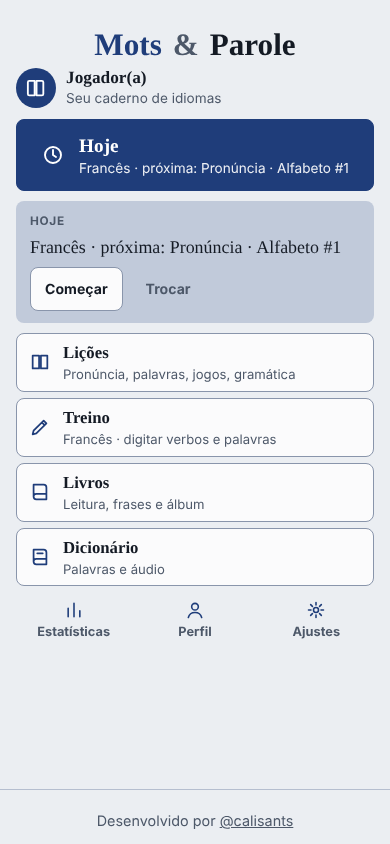
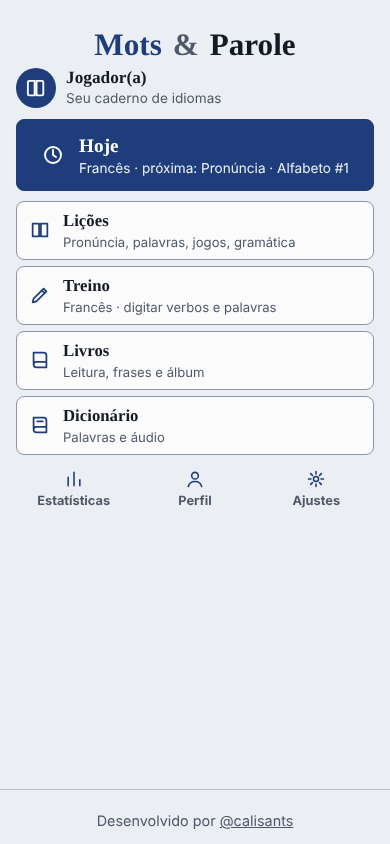
v1.39.1: Cartão do dia vem desligado (Hoje aparecia duas vezes)
Claude-Session: https://claude.ai/code/session_01Jjgc5gMX8emN8fLyn2n8jv

diff --git a/index.html b/index.html
@@ -986,7 +986,7 @@ svg{display:block}
 <div id="toast" role="status" aria-live="polite" hidden></div>
 
 <script>
-const APP_REL={v:"1.39.0",d:"2026-10-21"};
+const APP_REL={v:"1.39.1",d:"2026-10-21"};
 
 
 const RAW={
@@ -2504,7 +2504,7 @@ const ICON_IDS=["padrao","alice","pp","frank","soft","dante"];
 const WD_SRC=["hoje","msg","frase","livro","palavra","off"];
 const DAYRE=/^\d{4}-\d\d-\d\d$/;
 const S={lang:"fr",layout:"classic",mode:"auto",pal:"auto",style:"padrao",scheme:0,custom:"#7a3b8f",player:"",motto:"",avatar:"book",plays:{},sk:{},sound:"on",snd:"mid",hap:"on",trem:"on",kb:false,vol:1,fTheme:"all",fLevel:"all",fGame:"all",done:{},rv:{},rvv:{},typed:false,goal:20,day:{d:"",n:0},zoom:false,bk:0,bks:0,since:0,fav:[],cap:{},trad:"lit",qrv:{},cad:[],rd:{fs:0,bg:"pad",lh:0},
-  sq:0,lgt:"",gam:{on:false,pts:0,last:"",streak:0,best:0,les:0,bc:0,days:[],seen:[]},rm:{on:false,h:19,st:"anim"},wd:{src:"hoje",bk:"all"},ic:"padrao"};
+  sq:0,lgt:"",gam:{on:false,pts:0,last:"",streak:0,best:0,les:0,bc:0,days:[],seen:[]},rm:{on:false,h:19,st:"anim"},wd:{src:"off",bk:"all",u:0},ic:"padrao"};
 try{S.kb=!!(window.matchMedia&&matchMedia("(pointer:coarse)").matches);}catch(_){}
 (function load(){
   let sv=null;
@@ -2556,7 +2556,7 @@ try{S.kb=!!(window.matchMedia&&matchMedia("(pointer:coarse)").matches);}catch(_)
       seen:Array.isArray(g.seen)?g.seen.filter(k=>typeof k==="string"&&/^[a-z0-9]{1,12}$/.test(k)).slice(0,40):[]};
   }
   if(sv.rm&&typeof sv.rm==="object"){S.rm={on:sv.rm.on===true,h:ci(sv.rm.h,0,23)||(+sv.rm.h===0?0:19),st:["anim","calma","cartao"].indexOf(sv.rm.st)>=0?sv.rm.st:"anim"};}
-  if(sv.wd&&typeof sv.wd==="object"){S.wd={src:WD_SRC.indexOf(sv.wd.src)>=0?sv.wd.src:"hoje",bk:typeof sv.wd.bk==="string"&&/^[a-z]{1,12}$/.test(sv.wd.bk)?sv.wd.bk:"all"};}
+  if(sv.wd&&typeof sv.wd==="object"){S.wd={u:sv.wd.u?1:0,src:WD_SRC.indexOf(sv.wd.src)>=0&&(sv.wd.u||sv.wd.src!=="hoje")?sv.wd.src:"off",bk:typeof sv.wd.bk==="string"&&/^[a-z]{1,12}$/.test(sv.wd.bk)?sv.wd.bk:"all"};}
   if(ICON_IDS.indexOf(sv.ic)>=0)S.ic=sv.ic;
   /* as marcas de concluído das versões antigas não são trazidas: os ids das páginas mudaram */
   if(!old&&sv.done&&typeof sv.done==="object")Object.keys(sv.done).forEach(k=>{if(/^(fr|it|en):[a-z0-9-]+$/.test(k))S.done[k]=1;});
@@ -5397,7 +5397,7 @@ window.CTXH={"alice":{"intro":[{"t":"Lewis Carroll é pseudônimo de Charles Dod
   document.addEventListener("click",e=>{
     const t=e.target.closest&&e.target.closest("[data-wd],[data-wc],#wc-go2,#wc-say2,#nudge-go,#nudge-x");
     if(!t)return;
-    if(t.dataset.wd){S.wd.src=t.dataset.wd;afterWd();return;}
+    if(t.dataset.wd){S.wd.src=t.dataset.wd;S.wd.u=1;afterWd();return;}
     const w=t.dataset.wc;
     if(w==="go"||t.id==="wc-go2"||t.id==="nudge-go"){closeSheet();startToday();return;}
     if(w==="say"||t.id==="wc-say2"){const c=cardFor(ymd(),S.lang);if(c.say)speak(c.say);return;}
@@ -5558,6 +5558,8 @@ window.CTXH={"alice":{"intro":[{"t":"Lewis Carroll é pseudônimo de Charles Dod
 
 /* Notas de atualização: mais nova primeiro. Acrescente uma entrada a cada versão publicada (mesmo número de VERSION). */
 const NOVIDADES=[
+{v:"1.39.1",d:"2026-10-21",t:[
+"Corrigido: o «Hoje» aparecia duas vezes na tela inicial. O Cartão do dia agora vem desligado; para usar, ative em Ajustes → Lembretes e cartão"]},
 {v:"1.39.0",d:"2026-10-21",t:[
 "Corrigido: ao sair do app no meio de uma lição (para usar outro app) e voltar, a lição continua de onde parou. Só se perde se você fechar o app de vez ou ficar mais de 3 horas fora",
 "Em «Hoje», os jogos entram entre as lições: depois de 2 lições seguidas vem um jogo (de tipo diferente do último)",

diff --git a/src/p3.js b/src/p3.js
@@ -72,7 +72,7 @@ const ICON_IDS=["padrao","alice","pp","frank","soft","dante"];
 const WD_SRC=["hoje","msg","frase","livro","palavra","off"];
 const DAYRE=/^\d{4}-\d\d-\d\d$/;
 const S={lang:"fr",layout:"classic",mode:"auto",pal:"auto",style:"padrao",scheme:0,custom:"#7a3b8f",player:"",motto:"",avatar:"book",plays:{},sk:{},sound:"on",snd:"mid",hap:"on",trem:"on",kb:false,vol:1,fTheme:"all",fLevel:"all",fGame:"all",done:{},rv:{},rvv:{},typed:false,goal:20,day:{d:"",n:0},zoom:false,bk:0,bks:0,since:0,fav:[],cap:{},trad:"lit",qrv:{},cad:[],rd:{fs:0,bg:"pad",lh:0},
-  sq:0,lgt:"",gam:{on:false,pts:0,last:"",streak:0,best:0,les:0,bc:0,days:[],seen:[]},rm:{on:false,h:19,st:"anim"},wd:{src:"hoje",bk:"all"},ic:"padrao"};
+  sq:0,lgt:"",gam:{on:false,pts:0,last:"",streak:0,best:0,les:0,bc:0,days:[],seen:[]},rm:{on:false,h:19,st:"anim"},wd:{src:"off",bk:"all",u:0},ic:"padrao"};
 try{S.kb=!!(window.matchMedia&&matchMedia("(pointer:coarse)").matches);}catch(_){}
 (function load(){
   let sv=null;
@@ -124,7 +124,7 @@ try{S.kb=!!(window.matchMedia&&matchMedia("(pointer:coarse)").matches);}catch(_)
       seen:Array.isArray(g.seen)?g.seen.filter(k=>typeof k==="string"&&/^[a-z0-9]{1,12}$/.test(k)).slice(0,40):[]};
   }
   if(sv.rm&&typeof sv.rm==="object"){S.rm={on:sv.rm.on===true,h:ci(sv.rm.h,0,23)||(+sv.rm.h===0?0:19),st:["anim","calma","cartao"].indexOf(sv.rm.st)>=0?sv.rm.st:"anim"};}
-  if(sv.wd&&typeof sv.wd==="object"){S.wd={src:WD_SRC.indexOf(sv.wd.src)>=0?sv.wd.src:"hoje",bk:typeof sv.wd.bk==="string"&&/^[a-z]{1,12}$/.test(sv.wd.bk)?sv.wd.bk:"all"};}
+  if(sv.wd&&typeof sv.wd==="object"){S.wd={u:sv.wd.u?1:0,src:WD_SRC.indexOf(sv.wd.src)>=0&&(sv.wd.u||sv.wd.src!=="hoje")?sv.wd.src:"off",bk:typeof sv.wd.bk==="string"&&/^[a-z]{1,12}$/.test(sv.wd.bk)?sv.wd.bk:"all"};}
   if(ICON_IDS.indexOf(sv.ic)>=0)S.ic=sv.ic;
   /* as marcas de concluído das versões antigas não são trazidas: os ids das páginas mudaram */
   if(!old&&sv.done&&typeof sv.done==="object")Object.keys(sv.done).forEach(k=>{if(/^(fr|it|en):[a-z0-9-]+$/.test(k))S.done[k]=1;});

diff --git a/src/novidades.js b/src/novidades.js
@@ -1,5 +1,7 @@
 /* Notas de atualização: mais nova primeiro. Acrescente uma entrada a cada versão publicada (mesmo número de VERSION). */
 const NOVIDADES=[
+{v:"1.39.1",d:"2026-10-21",t:[
+"Corrigido: o «Hoje» aparecia duas vezes na tela inicial. O Cartão do dia agora vem desligado; para usar, ative em Ajustes → Lembretes e cartão"]},
 {v:"1.39.0",d:"2026-10-21",t:[
 "Corrigido: ao sair do app no meio de uma lição (para usar outro app) e voltar, a lição continua de onde parou. Só se perde se você fechar o app de vez ou ficar mais de 3 horas fora",
 "Em «Hoje», os jogos entram entre as lições: depois de 2 lições seguidas vem um jogo (de tipo diferente do último)",

diff --git a/src/lembretes.js b/src/lembretes.js
@@ -61,7 +61,7 @@
   document.addEventListener("click",e=>{
     const t=e.target.closest&&e.target.closest("[data-wd],[data-wc],#wc-go2,#wc-say2,#nudge-go,#nudge-x");
     if(!t)return;
-    if(t.dataset.wd){S.wd.src=t.dataset.wd;afterWd();return;}
+    if(t.dataset.wd){S.wd.src=t.dataset.wd;S.wd.u=1;afterWd();return;}
     const w=t.dataset.wc;
     if(w==="go"||t.id==="wc-go2"||t.id==="nudge-go"){closeSheet();startToday();return;}
     if(w==="say"||t.id==="wc-say2"){const c=cardFor(ymd(),S.lang);if(c.say)speak(c.say);return;}

diff --git a/sw.js b/sw.js
@@ -1,6 +1,6 @@
 // Service worker do Mots & Parole: guarda o app no aparelho para funcionar sem internet.
 // Ao publicar uma versão nova do index.html, troque o número em CACHE (v6 -> v7, e APP_VERSION no index.html).
-const CACHE = "mots-parole-v66"; // só o cache muda; a chave do LocalStorage (APP_VERSION) segue v6 para não apagar o progresso
+const CACHE = "mots-parole-v67"; // só o cache muda; a chave do LocalStorage (APP_VERSION) segue v6 para não apagar o progresso
 const ASSETS = [
   "./",
   "./index.html",

diff --git a/src/version.js b/src/version.js
@@ -1,1 +1,1 @@
-const APP_REL={v:"1.39.0",d:"2026-10-21"};
+const APP_REL={v:"1.39.1",d:"2026-10-21"};
